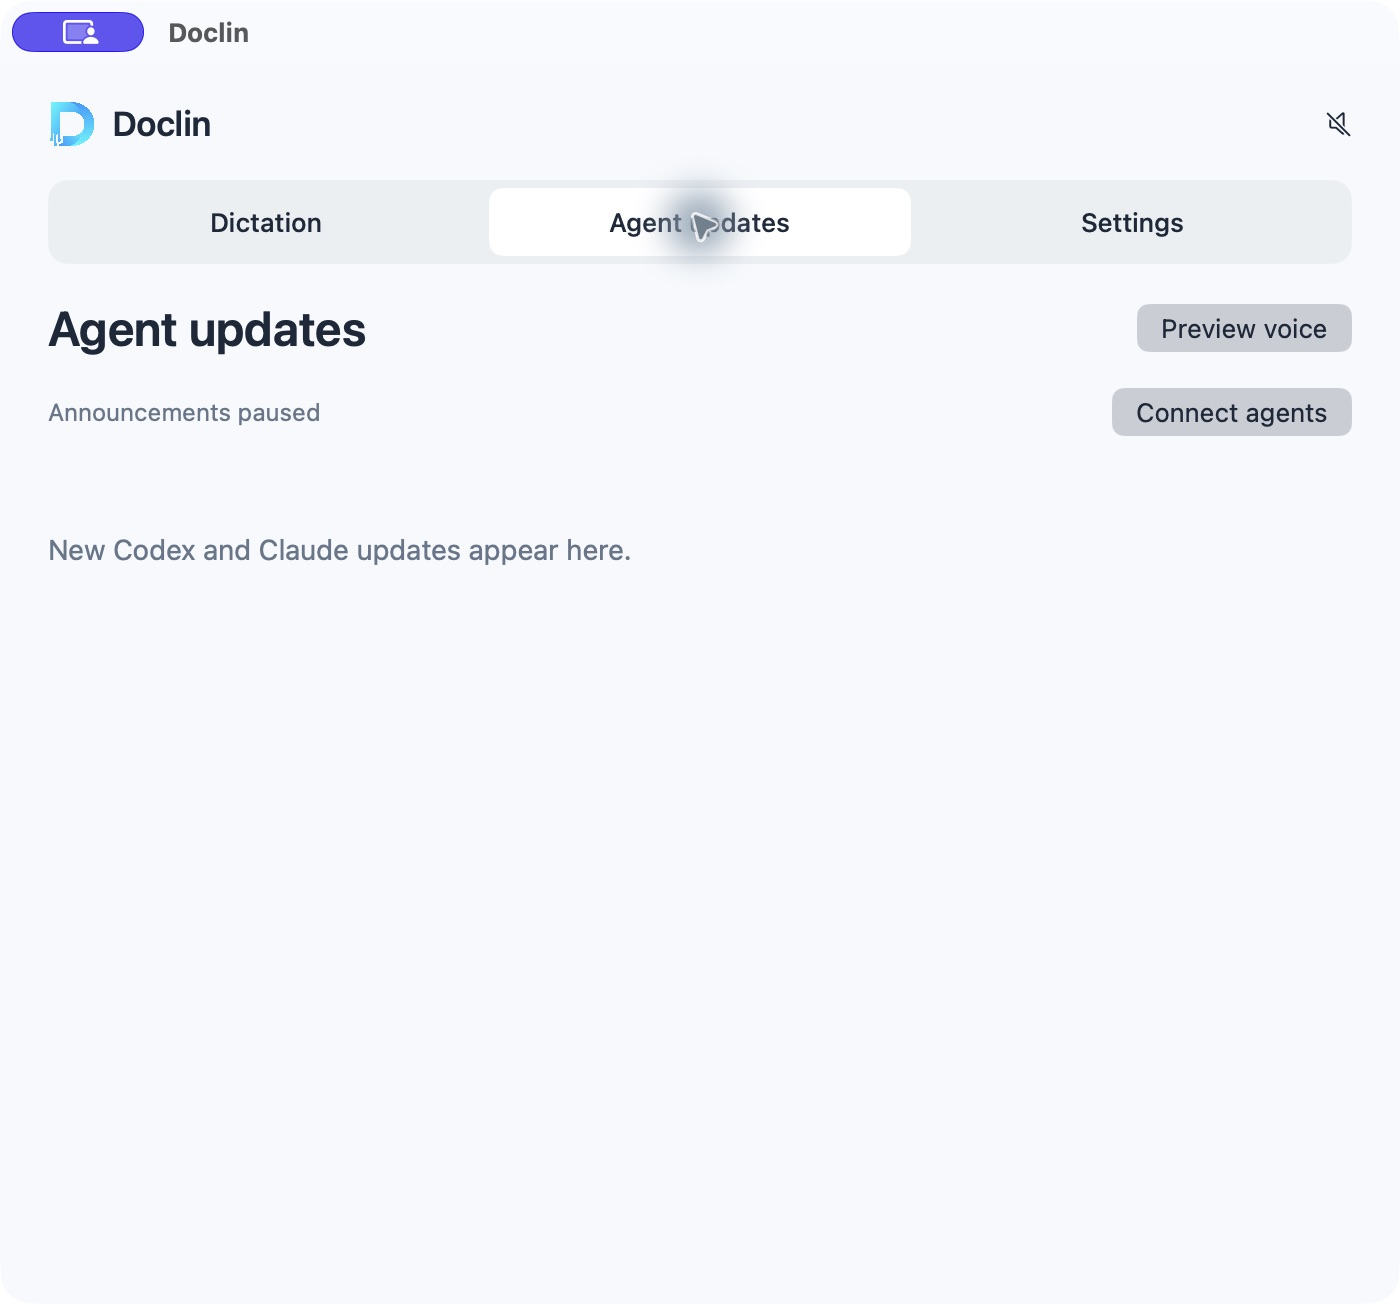
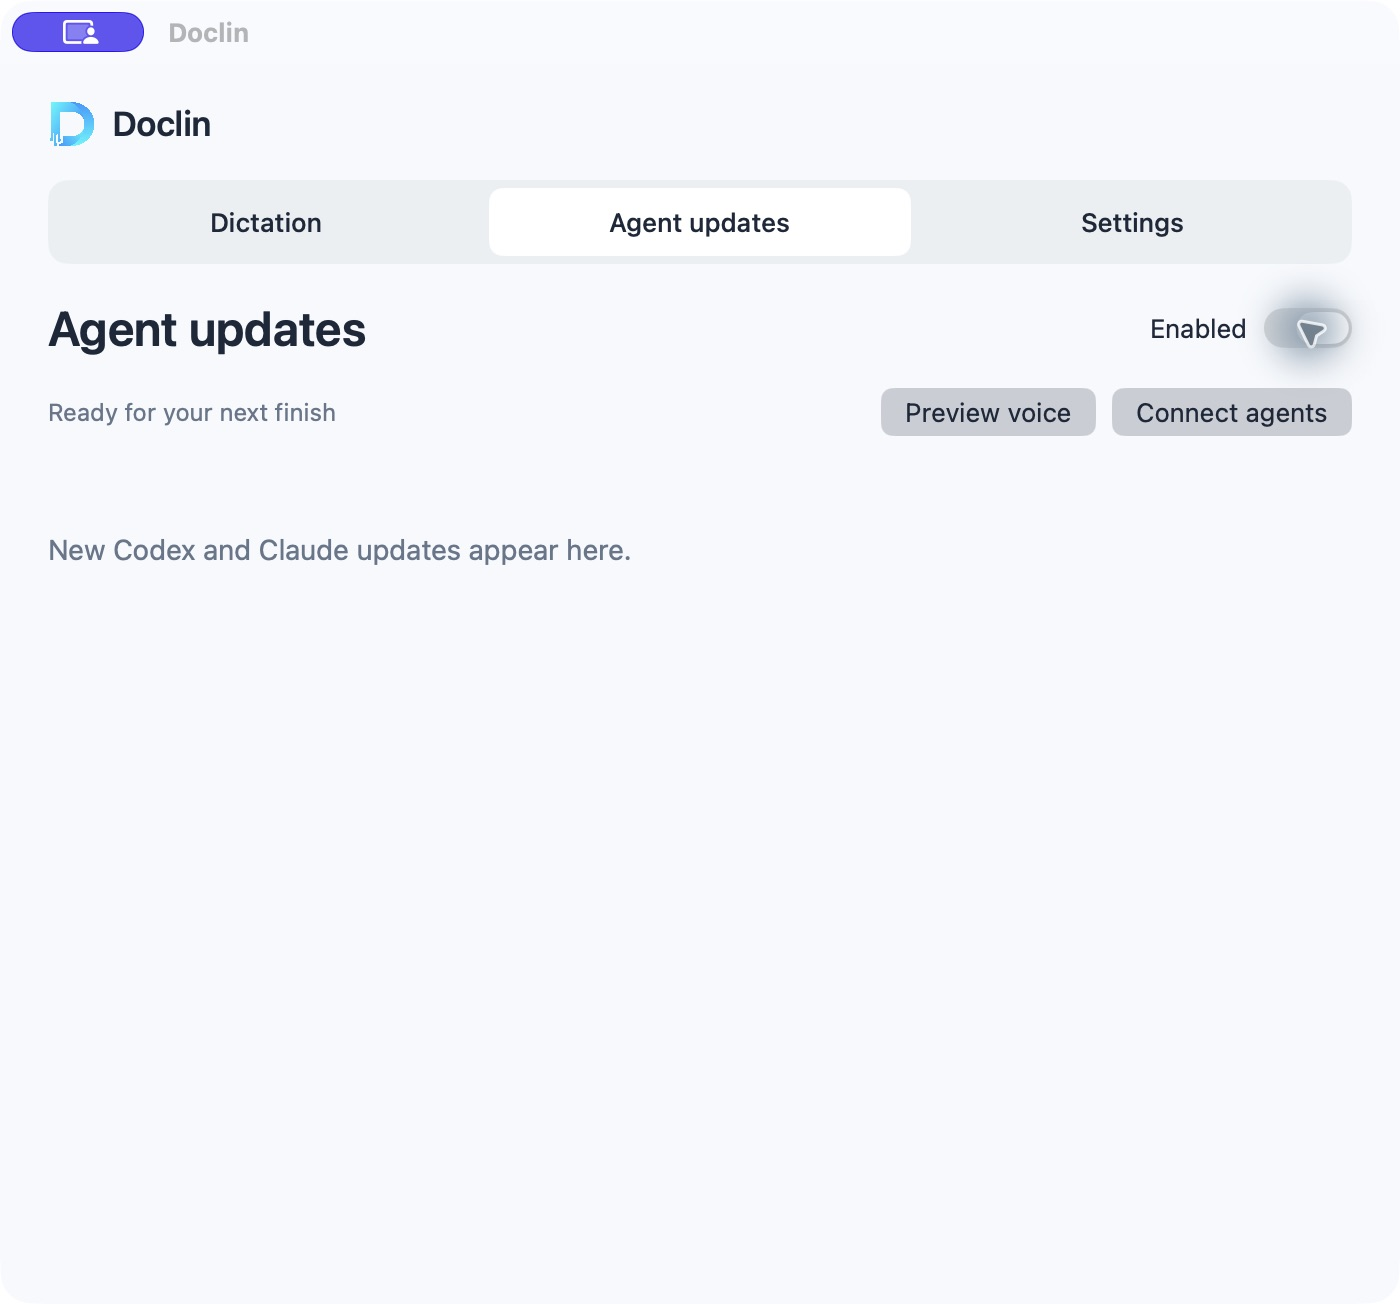
Make Doclin controls consistent and website dark-only (#6)
* Use deep navy behind the Doclin Dock logo

* Match narration controls and force dark website styling

---------

diff --git a/Sources/Doclin/Views.swift b/Sources/Doclin/Views.swift
@@ -26,10 +26,6 @@ struct DoclinView: View {
                 }
                 Text("Doclin").font(.system(size: 17, weight: .semibold))
                 Spacer()
-                Button { model.toggleMute() } label: {
-                    Image(systemName: model.preferences.muted ? "speaker.slash" : "speaker.wave.2")
-                }.buttonStyle(.plain).help(model.preferences.muted ? "Resume agent announcements" : "Pause agent announcements")
-                .accessibilityLabel(model.preferences.muted ? "Resume announcements" : "Pause announcements")
             }.padding(.horizontal, 24).padding(.top, 18).padding(.bottom, 16)
             HStack(spacing: 6) {
                 ForEach(["Dictation", "Activity", "Settings"], id: \.self) { name in
@@ -81,12 +77,15 @@ struct DoclinView: View {
             HStack {
                 Text("Agent updates").font(.system(size: 24, weight: .semibold))
                 Spacer()
-                Button("Preview voice") { model.preview() }
+                Toggle("Enabled", isOn: Binding(get: { !model.preferences.muted }, set: { enabled in
+                    if model.preferences.muted != !enabled { model.toggleMute() }
+                })).toggleStyle(.switch).controlSize(.small)
             }
             HStack {
                 Text(model.preferences.muted ? "Announcements paused" : model.status).font(.system(size: 12)).foregroundColor(mutedInk)
                 Spacer()
                 if model.speaking || model.pendingCount > 0 { Button("Stop") { model.stopAll() } }
+                Button("Preview voice") { model.preview() }.disabled(model.preferences.muted)
                 Button("Connect agents") { model.tab = "Connections" }
             }
             if model.history.isEmpty {
@@ -193,7 +192,7 @@ struct DoclinView: View {
                 }
                 Button("Clear recent announcements") { model.clearHistory() }
             }
-            Text("Doclin 0.4.8 · macOS 13 or later\nPersonal preview build. Public distribution requires Developer ID signing and notarization.").font(.system(size: 11)).foregroundColor(mutedInk).lineSpacing(4)
+            Text("Doclin \(Bundle.main.object(forInfoDictionaryKey: "CFBundleShortVersionString") as? String ?? "development") · macOS 13 or later\nPersonal preview build. Public distribution requires Developer ID signing and notarization.").font(.system(size: 11)).foregroundColor(mutedInk).lineSpacing(4)
         }
     }
     private func binding<T>(_ path: WritableKeyPath<Preferences, T>) -> Binding<T> {

diff --git a/docs/site/.vitepress/theme/style.css b/docs/site/.vitepress/theme/style.css
@@ -154,3 +154,23 @@
 .doclin-home .agent-details { margin: 22px auto 0; font-size: 14px; color: var(--vp-c-text-2); }
 .doclin-home .agent-details summary { cursor: pointer; color: var(--vp-c-brand-1); }
 .doclin-home .agent-details summary:focus-visible { outline: 2px solid #53a4f4; outline-offset: 4px; }
+
+/* One dark palette across the landing, installation and privacy pages. */
+:root, .dark {
+  color-scheme: dark;
+  --vp-c-bg: #0d1422;
+  --vp-c-bg-alt: #111827;
+  --vp-c-bg-soft: #172236;
+  --vp-c-bg-elv: #192436;
+  --vp-c-text-1: #edf6ff;
+  --vp-c-text-2: #b8c7db;
+  --vp-c-text-3: #a1b0c4;
+  --vp-c-divider: #29374c;
+  --vp-c-brand-1: #5cdaff;
+  --vp-c-brand-2: #41cbea;
+  --vp-c-brand-3: #167fa6;
+  --vp-c-brand-soft: #5cdaff18;
+}
+.doclin-home .download { background: #5cdaff; color: #111827; }
+.doclin-home .download:hover { background: #8be6ff; }
+.doclin-home .app-shot { box-shadow: 0 14px 44px #0006; }

diff --git a/scripts/icon.swift b/scripts/icon.swift
@@ -16,13 +16,10 @@ shadow.shadowColor = NSColor.black.withAlphaComponent(0.18)
 shadow.shadowBlurRadius = 16
 shadow.shadowOffset = NSSize(width: 0, height: -8)
 shadow.set()
-NSColor.white.setFill()
+NSColor(calibratedRed: 17.0 / 255, green: 24.0 / 255, blue: 39.0 / 255, alpha: 1).setFill()
 tile.fill()
 NSGraphicsContext.restoreGraphicsState()
-NSGradient(starting: NSColor(calibratedWhite: 1, alpha: 1),
-           ending: NSColor(calibratedRed: 0.91, green: 0.95, blue: 1, alpha: 1))!
-    .draw(in: tile, angle: -90)
-NSColor(calibratedRed: 0.78, green: 0.85, blue: 0.93, alpha: 0.6).setStroke()
+NSColor.white.withAlphaComponent(0.12).setStroke()
 tile.lineWidth = 2
 tile.stroke()
 logo.draw(in: NSRect(x: 202, y: 202, width: 620, height: 620))

diff --git a/RELEASE.md b/RELEASE.md
@@ -1,5 +1,7 @@
-# Doclin 0.4.10 — Rounded Dock icon
+# Doclin 0.4.11 — Consistent controls and dark website
 
-The original Doclin logo now sits inside a light rounded square, with transparent margins and a centered inset that matches other macOS Dock icons.
+Agent updates now uses the same Enabled switch as Dictation. Voice preview and agent connections remain beside the status; the duplicate header speaker control is removed. The switch preserves the existing announcement mute behavior.
 
-This resource-only update reuses the verified universal 0.4.9 app executable and voice runtime. Icon generation, all icon sizes, strict signature verification and app relaunch were checked. Development-signed preview, not notarized.
+The rounded Dock tile uses deep navy (#111827), keeping its size and inset. The website stays in dark mode with readable text and a cyan download button; the app interface stays light.
+
+Universal Mac preview, development-signed and not notarized. Native UI and persisted switches, website rendering, core/cloud checks, universal build and strict signature validation checked. Dictation remains paused on the installed Mac.

diff --git a/PACKAGING.md b/PACKAGING.md
@@ -40,11 +40,11 @@ Application certificate, and notarization credentials. None are in this repo.
 
 ```sh
 UNIVERSAL=1 SIGN_IDENTITY='Developer ID Application: YOUR NAME (TEAMID)' ./scripts/build.sh
-xcrun notarytool submit .build/signed-dist/Doclin-0.4.10-mac.zip --keychain-profile doclin-notary --wait
+xcrun notarytool submit .build/signed-dist/Doclin-0.4.11-mac.zip --keychain-profile doclin-notary --wait
 xcrun stapler staple .build/signed-dist/Doclin.app
 codesign --verify --deep --strict .build/signed-dist/Doclin.app
 spctl --assess --type execute --verbose .build/signed-dist/Doclin.app
-ditto -c -k --sequesterRsrc --keepParent .build/signed-dist/Doclin.app .build/signed-dist/Doclin-0.4.10-mac.zip
+ditto -c -k --sequesterRsrc --keepParent .build/signed-dist/Doclin.app .build/signed-dist/Doclin-0.4.11-mac.zip
 ```
 
 Inspect the exact ZIP contents before upload. Include the third-party license

diff --git a/docs/site/index.md b/docs/site/index.md
@@ -5,7 +5,7 @@ layout: page
 <div class="doclin-home">
   <h1>Dictate text. Hear your agents.</h1>
   <p class="lead">Dictation and spoken coding updates for Mac. Free and local by default.</p>
-  <a class="download" href="https://github.com/shawonibnkamal/doclin-macos/releases/download/v0.4.10/Doclin-0.4.10-mac.zip">Download Doclin for Mac</a>
+  <a class="download" href="https://github.com/shawonibnkamal/doclin-macos/releases/download/v0.4.11/Doclin-0.4.11-mac.zip">Download Doclin for Mac</a>
   <p class="download-note">macOS 13+ · Preview build · Not notarized</p>
   <p class="small-links"><a href="/setup">Installation help</a> · <a href="https://github.com/shawonibnkamal/doclin-macos">Source code</a></p>
   <img class="app-shot" src="/images/doclin-app.png" alt="Doclin's compact dictation window, with agent updates one click away" width="1400" height="1304" />

diff --git a/README.md b/README.md
@@ -16,7 +16,7 @@ See [dictation checks and limitations](DICTATION-QUALITY-QA.md).
 
 ## Download for Mac
 
-[Download Doclin 0.4.10](https://github.com/shawonibnkamal/doclin-macos/releases/download/v0.4.10/Doclin-0.4.10-mac.zip).
+[Download Doclin 0.4.11](https://github.com/shawonibnkamal/doclin-macos/releases/download/v0.4.11/Doclin-0.4.11-mac.zip).
 Unzip, move Doclin.app to Applications, and turn on Dictation. Allow Microphone
 and Accessibility, then hold Right Command in a text field to speak.
 

diff --git a/docs/site/setup.md b/docs/site/setup.md
@@ -1,6 +1,6 @@
 # Install Doclin
 
-[Download Doclin for Mac](https://github.com/shawonibnkamal/doclin-macos/releases/download/v0.4.10/Doclin-0.4.10-mac.zip).
+[Download Doclin for Mac](https://github.com/shawonibnkamal/doclin-macos/releases/download/v0.4.11/Doclin-0.4.11-mac.zip).
 
 1. Unzip the download and move **Doclin.app** to Applications.
 2. Open Doclin and turn on **Dictation**.
